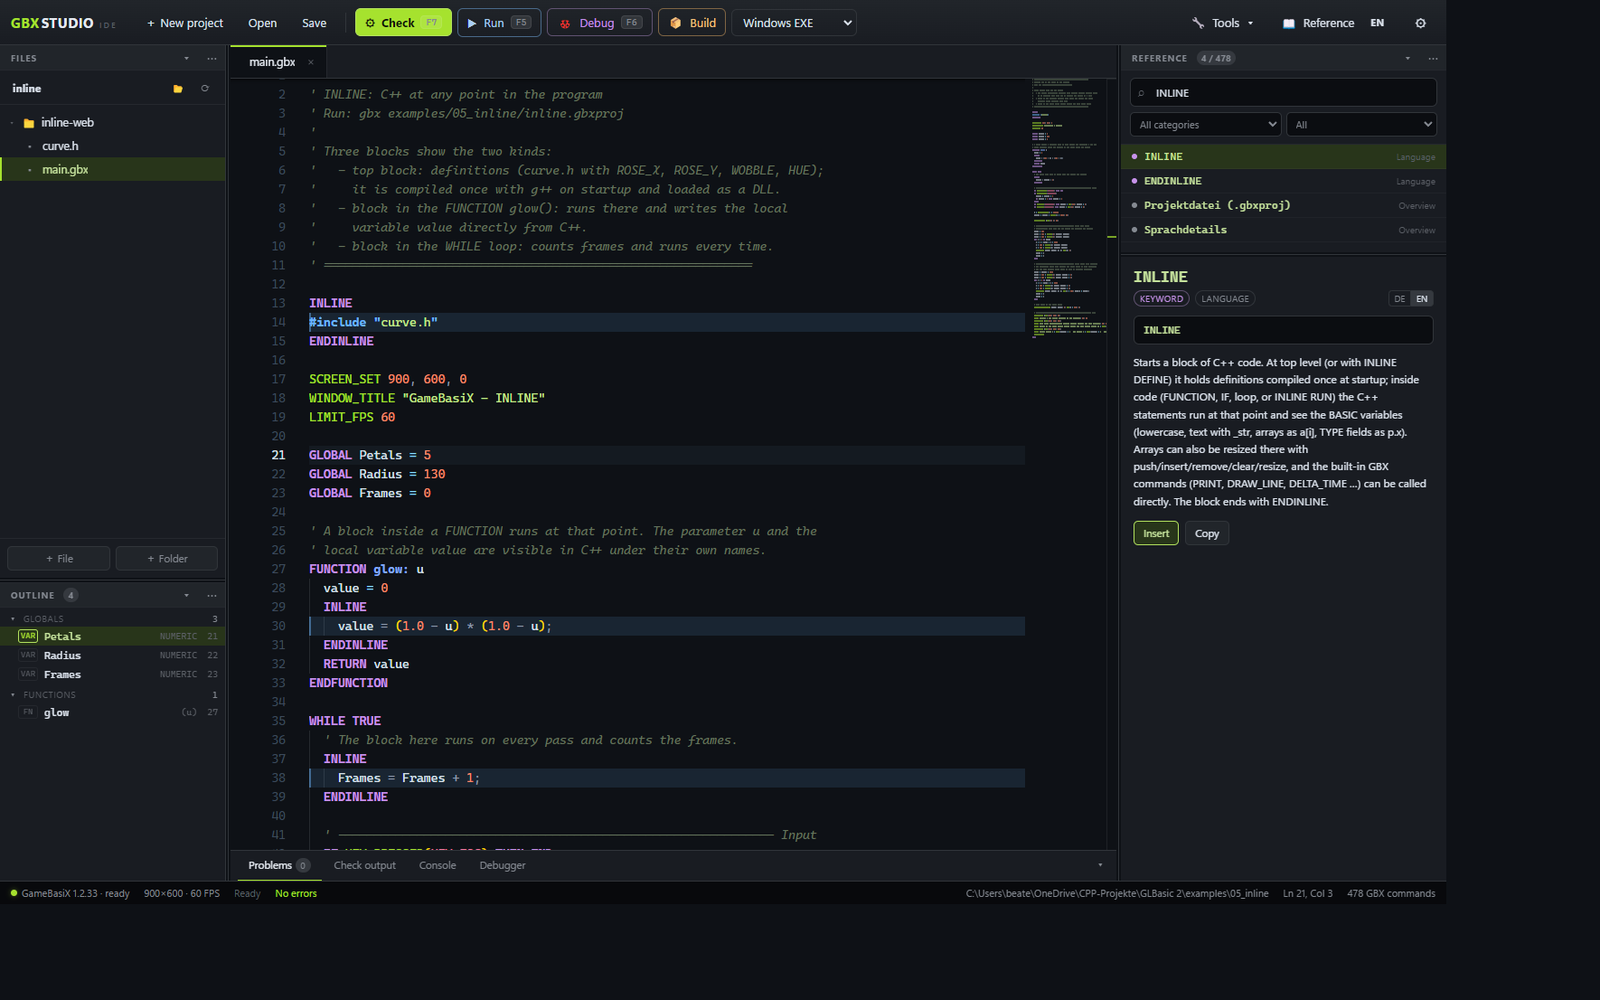
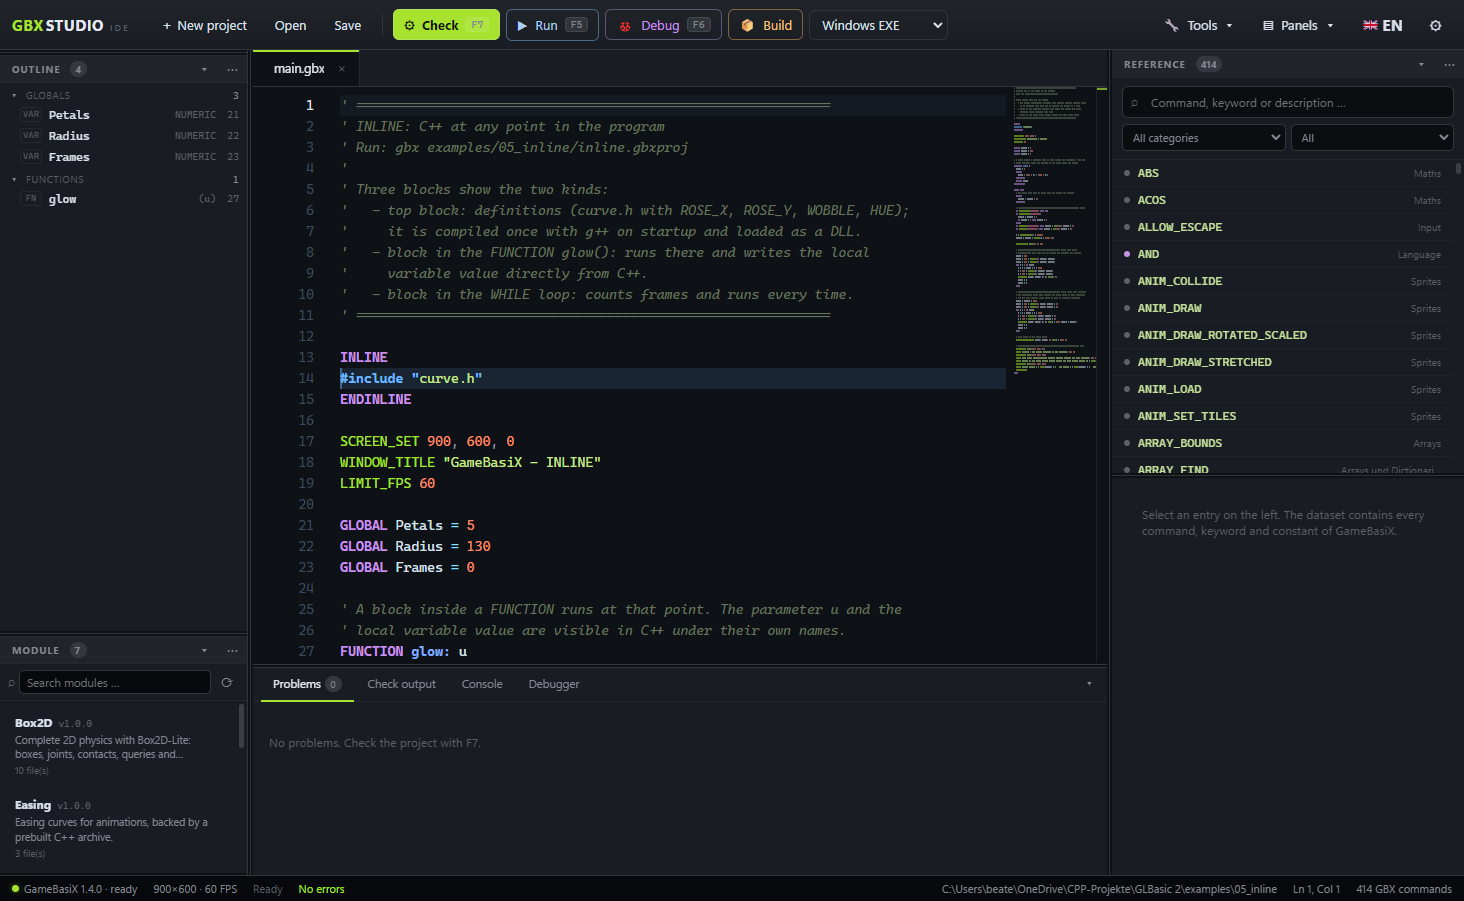
Refresh the 1.4.0 front page and module screenshots
Show the central UI module and the Modules dock in the IDE hero, add
screenshots of the UI, OpenGL 3D, easing and JSON examples, and update
the command counts and the 3D scope for the 1.4.0 release.

Generated with Codebuff 🤖

diff --git a/README.md b/README.md
@@ -13,10 +13,10 @@ library matters, and keep both languages in the same source file. GBX Studio
 puts the editor, live checks, debugger and both export targets around it.
 
 <p align="center">
-  <img src="docs/screenshots/ide.png" alt="GBX Studio with the 2D camera example, file tree, outline, command reference and live status" width="100%">
+  <img src="docs/screenshots/ide.png" alt="GBX Studio with the central UI module, file tree, outline, module dock, command reference and live status" width="100%">
 </p>
 
-<p align="center"><sub><b>GBX Studio</b> — the camera example, project files and outline on the left, the C++/BASIC editor in the middle, and the searchable command reference on the right.</sub></p>
+<p align="center"><sub><b>GBX Studio</b> — the central UI module on the left, the C++/BASIC editor in the middle, and the searchable command reference and module dock on the right. The project itself contains only <code>INCLUDE "modules/ui/UI.gbx"</code>.</sub></p>
 
 ## BASIC for the game. C++ where it matters.
 
@@ -71,16 +71,18 @@ for the complete rules.
 | **Input** | Keyboard scancodes with `KEY_*` names, mouse position/buttons/wheel, single-frame presses and connected gamepads with named buttons and axes. |
 | **Data** | Buffered text and binary file I/O, directories, string/math helpers, arrays with sort/find, string-keyed dictionaries, `TYPE` arrays and arrays inside `TYPE`s. |
 | **Networking** | Non-blocking TCP and UDP; listen/accept/connect, text packets, peer address, pending bytes and error text. |
-| **Steam** | Friends and P2P packets, achievements, integer/float stats, leaderboards, cloud files, lobbies with member data, rich presence, overlay, auth session tickets and DLC checks. Loaded at runtime; the Steam DLL is not redistributed. |
+| **Steam** | Friends and P2P packets, achievements, integer/float stats, leaderboards, cloud files, lobbies with member data, rich presence, overlay, auth session tickets and DLC checks. The commands live in `modules/steam` and load the Steam DLL at runtime; the DLL is not redistributed. |
+| **Modules** | UI, Math, JSON, Box2D, OpenGL 3D, Easing and Steam are drop-in modules. One `INCLUDE` links a module; the Module dock adds and removes it, and its commands appear in the editor, completion and reference. |
 | **Tasks and async work** | `TASK`/`AWAIT FRAME`/`AWAIT seconds` cooperative fibers, `SPAWN(@function, …)` worker jobs, `FILE_READ_ASYNC`/`FILE_WRITE_ASYNC`, and `JOB_DONE`/`JOB_VALUE` polling without blocking the frame. |
 | **Native C++** | `INLINE` definitions and steps, direct access to BASIC variables and arrays, direct GBX calls, `[native]` archives/object files, generated C++ export and HTML5/Wasm support through Emscripten. |
 | **Tools and shipping** | GBX Studio, live name/arity checking, debugger, hot reload for assets, one-file Windows EXE export and self-contained HTML5 export. |
-| **Scope** | Deliberately 2D. There is no 3D renderer, scene graph or platform-specific editor layer; the 2D core is the product. |
+| **Scope** | The runtime and editor are built around 2D. 3D is an optional module (`modules/opengl3d`), not a scene graph or platform layer; the focused 2D core remains the product. |
 
-The built-in command set covers **300+ commands**; the IDE ships **478 searchable
-reference entries** including commands, keywords, operators, types and `KEY_*`
-constants. The complete list is in the [command reference](#command-reference),
-in [CHEATSHEET.png](CHEATSHEET.png), or in the IDE's reference panel.
+The interpreter ships **239 built-in commands**; the IDE's searchable reference
+has **414 entries** covering commands, keywords, operators, types, `KEY_*`
+constants and the commands of active modules. The complete list is in the
+[command reference](#command-reference), in [CHEATSHEET.png](CHEATSHEET.png), or
+in the IDE's reference panel.
 
 ## GBX Studio: what makes it different
 
@@ -95,7 +97,7 @@ the project, the interpreter and the C++ blocks:
   buffer goes through `gbx --check --stdin`: syntax, unknown names, argument
   counts and TYPE fields become markers in the gutter and entries under
   **Problems**. No temporary files, no save required.
-- **The reference is part of the workspace.** All 478 entries have signatures
+- **The reference is part of the workspace.** All 414 entries have signatures
   and descriptions in English and German, plus sample code where the command
   has one. Search, filter by category, read the detail pane, then **Insert** or
   **Copy** the signature without leaving the code.
@@ -135,12 +137,26 @@ the project, the interpreter and the C++ blocks:
 | <img src="docs/screenshots/sparks.png" width="430" alt="Sparks demo"> | <img src="docs/screenshots/steam.png" width="430" alt="Steam P2P chat"> |
 | **900 sparks** — C++ steps moving a `TYPE` array (`examples/06_sparks`) | **Steam link** — friends and P2P packets (`examples/12_steam`) |
 
+## Central modules
+
+The `modules/` folder is the shared library. One `INCLUDE` links a module into a
+project; the IDE's Module dock adds and removes it, and module commands are
+highlighted, completed and documented like built-ins. All seven modules ship
+with help, tests and the [module cheat sheet](modules/CHEATSHEET.html).
+
+| | |
+|:--:|:--:|
+| <img src="docs/screenshots/modules.png" width="430" alt="Central UI module with windows, widgets and theme controls"> | <img src="docs/screenshots/opengl3d.png" width="430" alt="OpenGL 3D module scene with a textured cube, sphere and cylinder"> |
+| **UI module** — windows, widgets and themes in pure BASIC (`examples/29_modules`) | **OpenGL 3D** — transform stack, lighting and primitives through one module (`examples/30_opengl3d`) |
+| <img src="docs/screenshots/easing.png" width="430" alt="Easing curves with linear, smoothstep, cubic and back-out modes"> | <img src="docs/screenshots/json.png" width="430" alt="JSON document values and pretty-printed output"> |
+| **Easing** — four curve modes, desktop archive and HTML5 fallback (`examples/31_easing`) | **JSON** — build, edit, save and read a document by path (`examples/32_json`) |
+
 The newest examples are [`examples/27_tasks`](examples/27_tasks) (tasks,
 worker jobs and async files), [`examples/28_camera`](examples/28_camera)
 (pan, zoom, rotation and screen/world conversion),
 [`examples/29_modules`](examples/29_modules) (the central UI module, with no
 module files inside the project), [`examples/30_opengl3d`](examples/30_opengl3d)
-(a 3D scene through the central OpenGL module) and
+(a 3D scene through the central OpenGL module),
 [`examples/31_easing`](examples/31_easing) (animation curves from a module that
 ships a prebuilt C++ archive) and [`examples/32_json`](examples/32_json) (JSON
 config and save data with path-based reads and writes).
@@ -1406,18 +1422,6 @@ Code is a different matter: a changed `.gbx` file needs a new interpreter run.
 GBX Studio does that on its own - saving a `.gbx` or `.gbxproj` while the
 program runs restarts it, and the console says so. *Settings → General →
 "Restart the running program after saving"* turns that off.
-
-## Deliberately not included
-
-3D (`X_*`), pulling in C++ templates (`IMPORT`, `REQUIRE`), preprocessor
-(`?IF` …), sockets behind Steam's newer `ISteamNetworkingSockets` (lobbies,
-connection handles), movies,
-`MEM2SPRITE`/`SPRITE2MEM`/`MEM2FONT`/`FONT2MEM`,
-`FINDPATH`, `FILEREQUEST`, `SHELLCMD`, `ADDRESSOF`/`CALLBYNAME`,
-`ENCRYPT$`/`DECRYPT$`, `SETSHOEBOX`. `SORTARRAY` is no longer missing:
-`ARRAY_SORT` and `ARRAY_FIND` sort and search in place. The need for the
-remaining ones is either 3D-, platform- or security-related; the 2D core is
-complete.
 
 ## Examples
 
